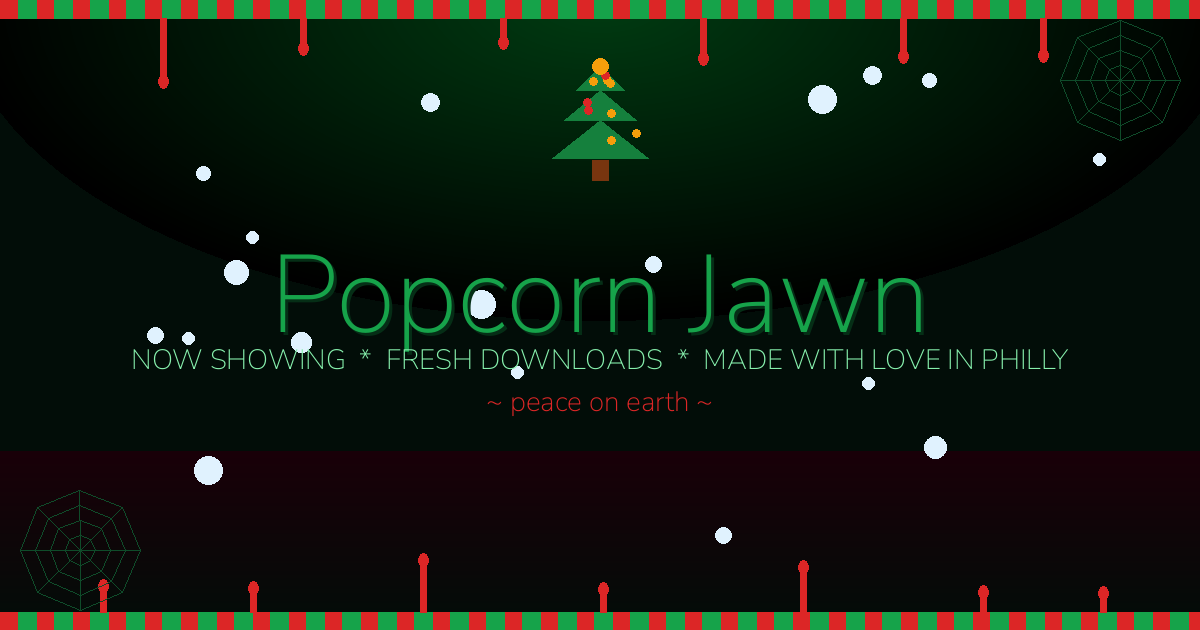
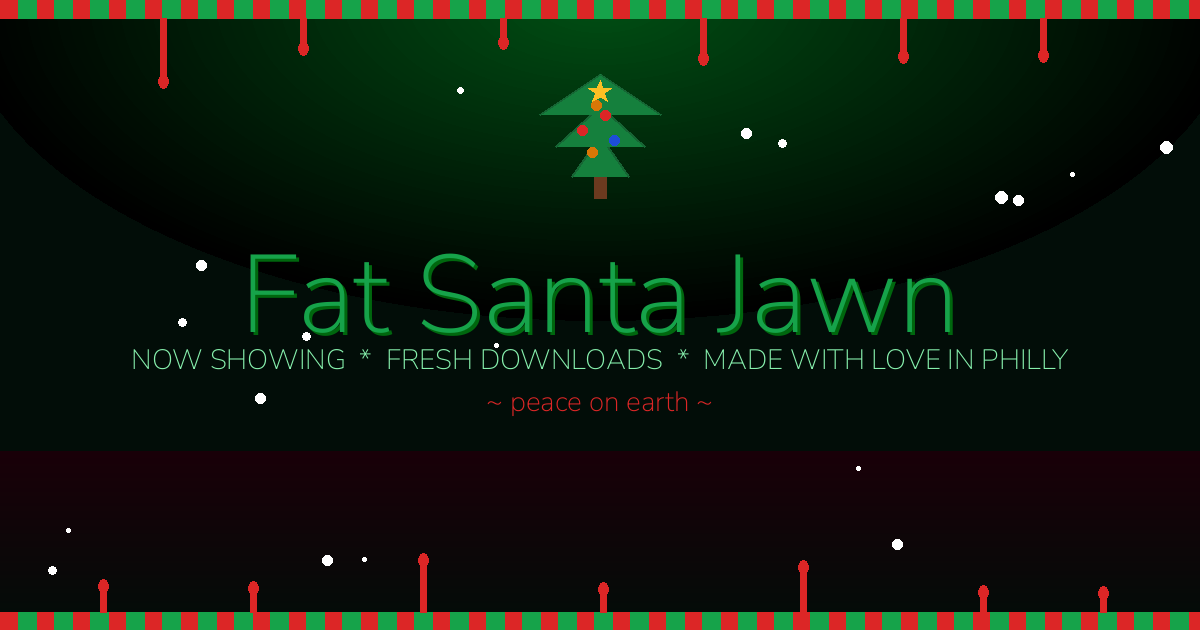
Rename seasonal titles: Gobbler Jawn / Fat Santa Jawn

diff --git a/public/index.html b/public/index.html
@@ -844,7 +844,7 @@
       },
       thanksgiving: {
         range: [[11,1],[11,30]],
-        title: 'Popcorn Jawn',
+        title: 'Gobbler Jawn',
         headerEmoji: '🍿',
         taglineEmojiL: '🦃', taglineEmojiR: '🍂',
         tagline: 'Now Showing · Fresh Downloads · Made with 🧡 in Philadelphia',
@@ -860,7 +860,7 @@
       },
       christmas: {
         range: [[12,1],[1,7]],
-        title: 'Popcorn Jawn',
+        title: 'Fat Santa Jawn',
         headerEmoji: '🍿',
         taglineEmojiL: '🎄', taglineEmojiR: '⛄',
         tagline: 'Now Showing · Fresh Downloads · Made with ❤ in Philadelphia',

diff --git a/scripts/update_og.py b/scripts/update_og.py
@@ -5,8 +5,8 @@ from datetime import datetime
 
 THEMES = {
     'halloween':    {'title': 'Ghoulish Jawn',  'desc': 'Fresh frights, ready to watch. Made with love in Philadelphia.'},
-    'thanksgiving': {'title': 'Popcorn Jawn',   'desc': 'Fresh downloads, ready to watch. Made with love in Philadelphia.'},
-    'christmas':    {'title': 'Popcorn Jawn',   'desc': 'Fresh downloads, ready to watch. Made with love in Philadelphia.'},
+    'thanksgiving': {'title': 'Gobbler Jawn',   'desc': 'Fresh downloads, ready to watch. Made with love in Philadelphia.'},
+    'christmas':    {'title': 'Fat Santa Jawn', 'desc': 'Fresh downloads, ready to watch. Made with love in Philadelphia.'},
     'default':      {'title': 'Popcorn Jawn',   'desc': 'Fresh downloads, ready to watch. Made with love in Philadelphia.'},
 }
 
